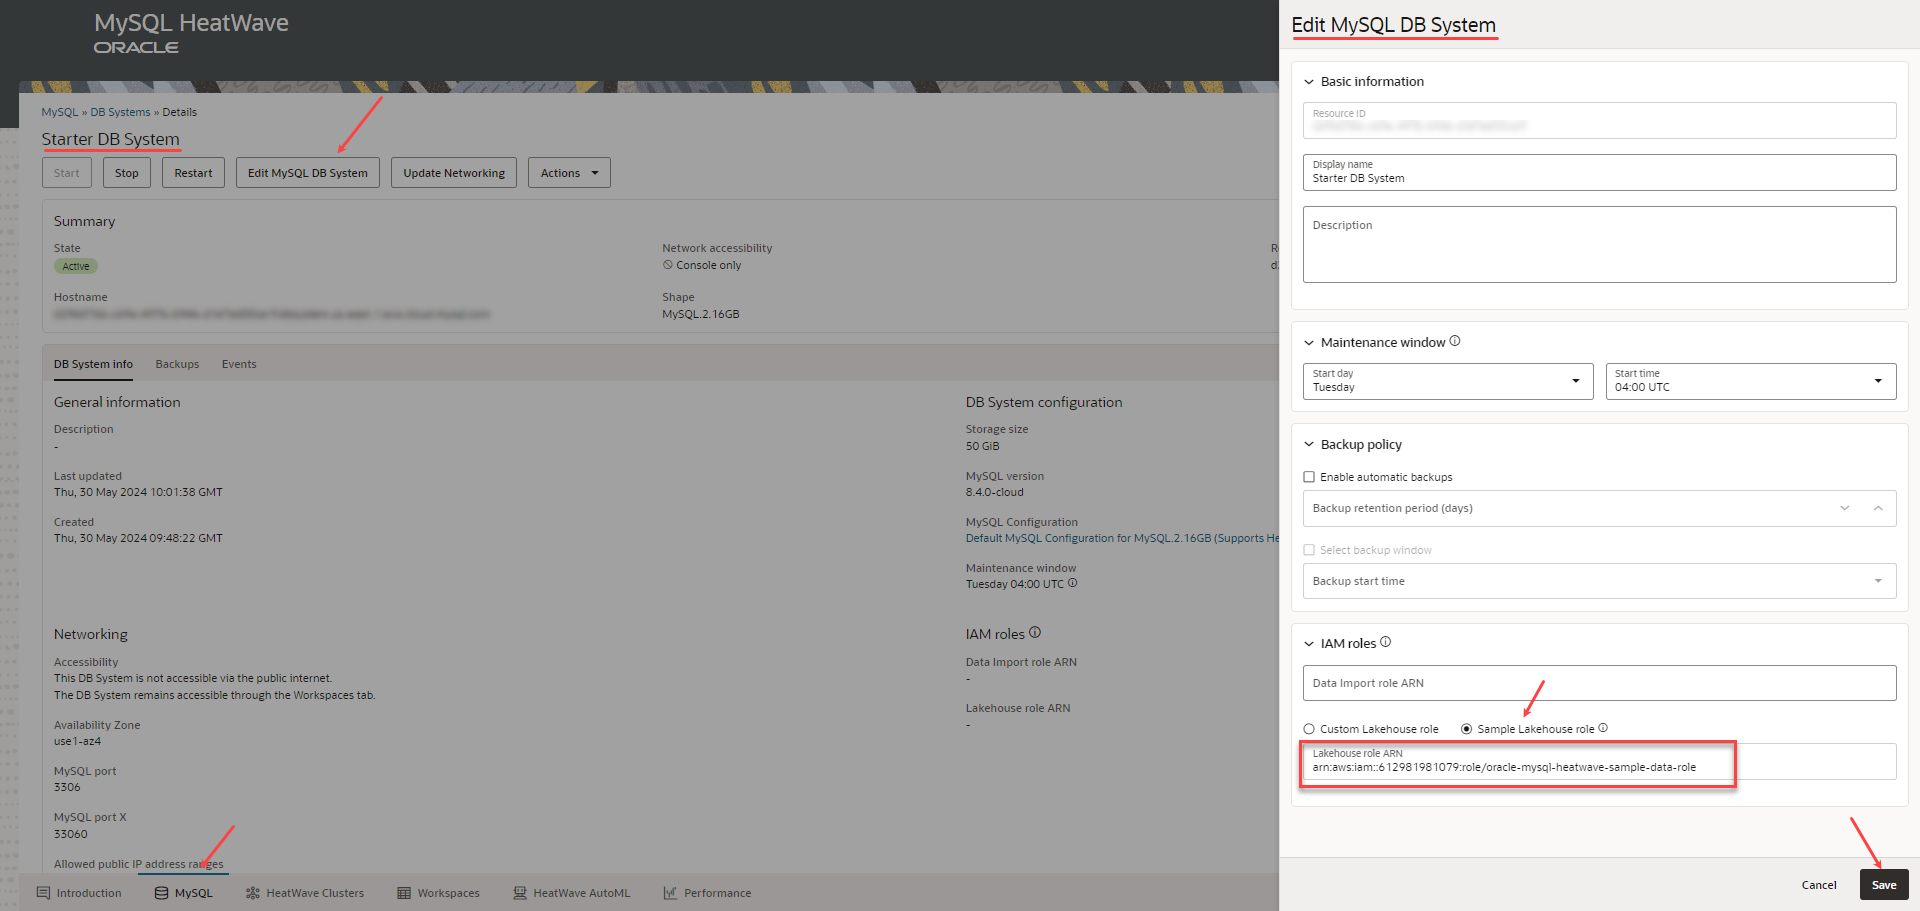
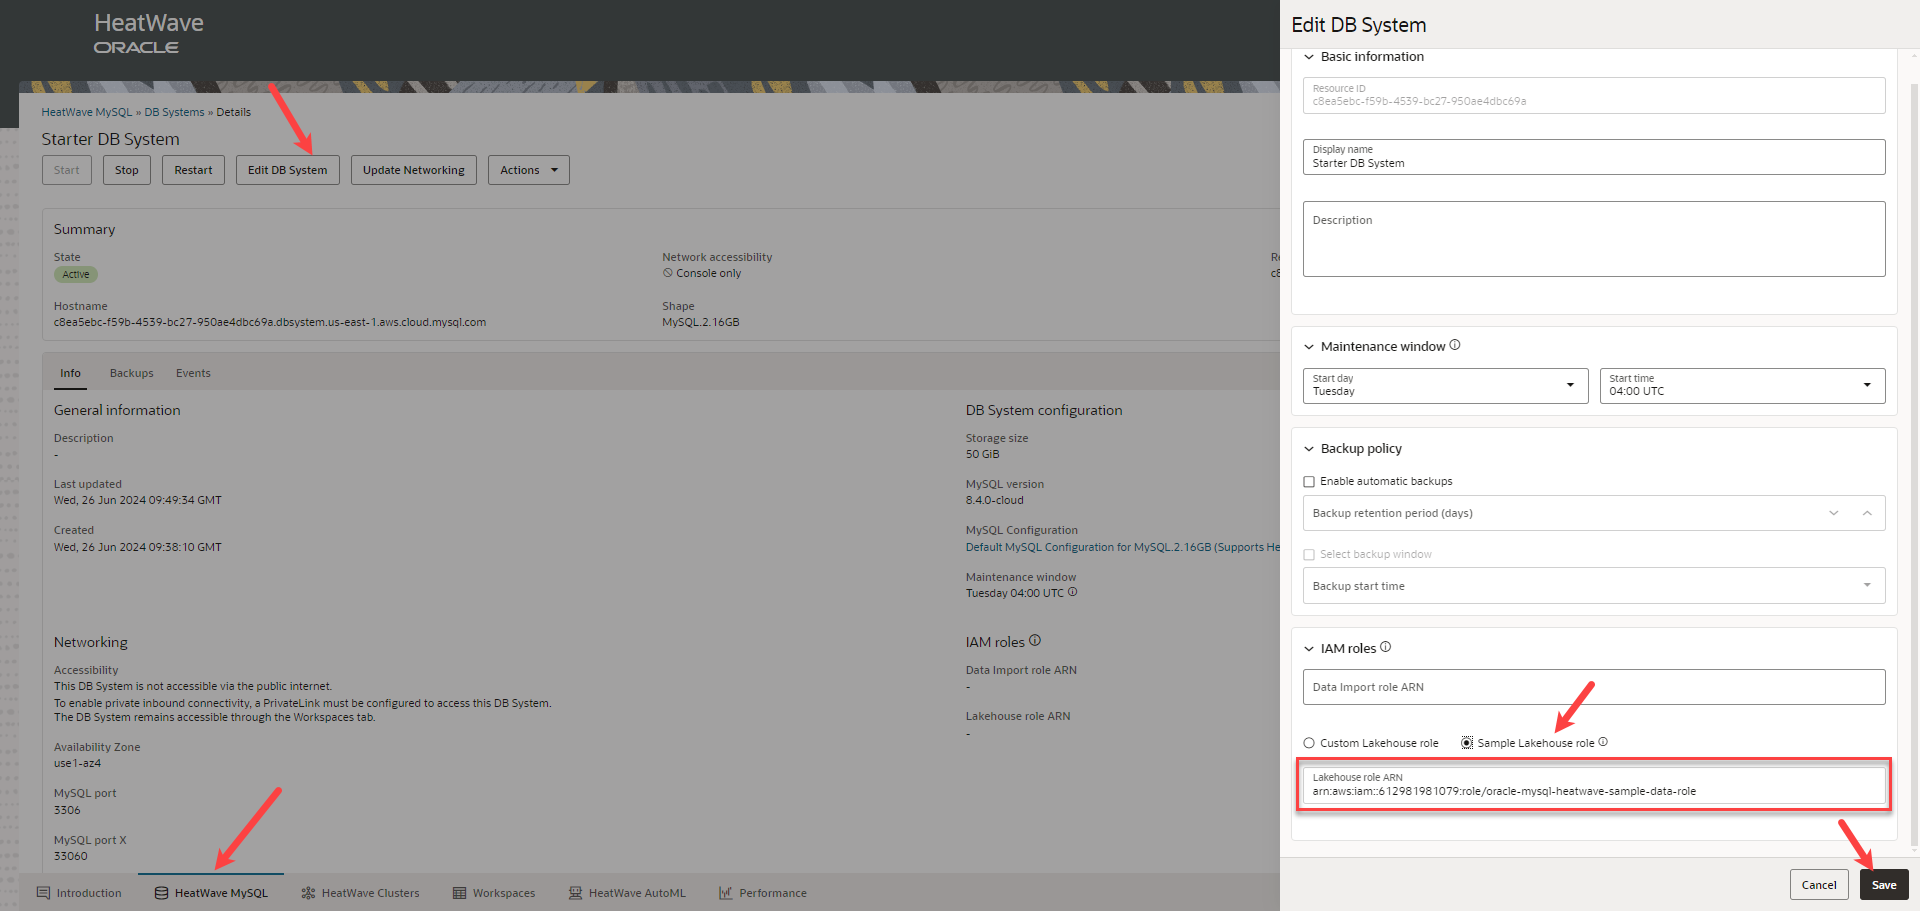
LWMS ID: 11660 - Lakehouse

diff --git a/create-lakehouse-mapping/create-lakehouse-mapping.md b/create-lakehouse-mapping/create-lakehouse-mapping.md
@@ -2,7 +2,7 @@
 
 ## Introduction
 
-In this lab you will map a table from the sample schema, airportdb, present in an Oracle-managed S3 bucket to HeatWave. Lakehouse mappings enable seamless and efficient data analysis directly on the data present in an Amazon S3 bucket. You don’t need to define the schema of the files in Amazon S3.  
+In this lab you will map a table from the sample schema, <i>airportdb</i>, present in an Oracle-managed S3 bucket to HeatWave. Lakehouse mappings enable seamless and efficient data analysis directly on the data present in an Amazon S3 bucket. You don’t need to define the schema of the files in Amazon S3.  
 
 _Estimated Time:_ 15 minutes
 
@@ -22,10 +22,16 @@ In this lab, you will be guided through the following tasks:
 1. Go to the **HeatWave Clusters** tab in the [Heatwave Console](https://cloud.mysql.com).
 
 2. Select your HeatWave Cluster, and under **Actions**, Click **Enable Lakehouse**. 
+    
     ![Enable Lakehouse](./images/1-enable-lakehouse.png "Enable Lakehouse")
 
-3. Under **HeatWave Cluster Details**, you can see that Lakehouse is enabled.
-    ![Lakehouse enabled](./images/2-lakehouse-enabled.png "Lakehouse enabled")
+3. In the **Enable HeatWave Lakehouse** dialog, click **Enable**.
+
+    ![Enable Lakehouse dialog](./images/2-enable-lakehouse-dialog.png "Enable Lakehouse dialog")
+
+4. Under **HeatWave Cluster Details**, you can see that Lakehouse is enabled.
+    
+    ![Lakehouse enabled](./images/3-lakehouse-enabled.png "Lakehouse enabled")
 
 ## Task 2: Create Lakehouse mapping
 
@@ -35,20 +41,22 @@ Lakehouse mappings enable you to perform analytics on the data in Amazon S3.
 
 2. Click **Create Lakehouse Mapping**.
 
+    ![Click create Lakehouse mapping](./images/4-click-create-lakehouse-mapping.png "Create Lakehouse mapping")
+
 3. In the **Create Lakehouse Mapping** panel, under **Source**, select **Use sample data**. This enables you to map sample tables present in the Oracle-managed S3 bucket to HeatWave. 
 
-4. Select the booking table from the drop down list, and rest of the details are populated automatically.
+4. Select the table, <i>booking</i>, from the drop down list, and click **Next**. The details are populated automatically. 
 
-    ![Create Lakehouse mapping](./images/6-create-lakehouse-mapping.png "Create Lakehouse mapping")
+    ![Create Lakehouse mapping](./images/5-create-lakehouse-mapping.png "Create Lakehouse mapping")
 
-5. Autopilot schema inference, a machine learning-powered automation, adaptively samples a small fraction of data in Amazon S3 and infers the number of columns, their data types, and their precision, creates the table definition, and also the script needed to load the table into HeatWave. This works on files that contain some metadata, like Parquet and Avro, and also on files that contain no metadata, like CSV.
-Select the **Load into HeatWave after creating Lakehouse mapping** checkbox to load data into HeatWave directly from the Amazon S3 bucket, and click **Create Lakehouse Mapping**. 
+5. Select the **Load into HeatWave after creating Lakehouse mapping** checkbox to load data into HeatWave directly from the Amazon S3 bucket, and click **Create Lakehouse Mapping**.  
+Autopilot schema inference, a machine learning-powered automation, adaptively samples a small fraction of data in Amazon S3 and infers the number of columns, their data types, and their precision, creates the table definition, and also the script needed to load the table into HeatWave. This works on files that contain some metadata, like Parquet and Avro, and also on files that contain no metadata, like CSV.
 
-    ![Auto schema inference](./images/7-auto-schema-inference.png "Auto schema inference")
+    ![Auto schema inference](./images/6-auto-schema-inference.png "Auto schema inference")
 
-6. You can see the table, booking, loaded into HeatWave directly from S3.
+6. You can see the table, <i>booking</i>, loaded into HeatWave directly from S3.
 
-    ![Loaded table](./images/8-loaded-table.png "Loaded table")
+    ![Loaded table](./images/7-loaded-table.png "Loaded table")
 
 You may now **proceed to the next lab**.
 

diff --git a/run-queries/run-queries.md b/run-queries/run-queries.md
@@ -22,12 +22,12 @@ In this lab, you will be guided through the following task:
 
 ## Task 1:  Connect to the Starter DB System
 
-1. Go to the **Workspaces tab**, and click **Connect to DB System**.
+1. Go to the **Workspaces** tab, and click **Connect to DB System**.
    
 2. Select your DB System and enter the username and password you had created in Lab 1.
     ![Connect Starter DB System](./images/1-connect-starter-db-system.png "Connect Starter DB System")
 
-3. In the **Query Editor** tab, you can see that the starter DB System contains the schemas, airportdb and tpch_1, already loaded into HeatWave.
+3. In the **Query Editor** tab, you can see that the starter DB System contains the schemas, <i>airportdb</i> and <i>tpch_1</i>, already loaded into HeatWave.
     ![Sample schemas](./images/2-sample-schemas.png "Sample schemas")
 
 ## Task 2: Run queries with HeatWave turned on
@@ -48,7 +48,7 @@ In this lab, you will be guided through the following task:
 
     When you run the query with HeatWave, it took only 0.1070 seconds.
 
-    ![Run query with HeatWave](./images/5-run-query.png "Run query with HeatWave")
+    ![Run query with HeatWave](./images/5-run-query-heatwave-on.png "Run query with HeatWave")
 
 ## Task 3: Run queries with HeatWave turned off
 
@@ -57,8 +57,11 @@ Let us run the same query by turning off HeatWave to find out what query perform
 1. Paste the following query in the **Query Editor**, and turn off HeatWave by clicking **Run Query**:
 
     ```bash
-    <copy>SET SESSION use_secondary_engine=OFF; </copy> 
+    <copy>SET SESSION use_secondary_engine=OFF;
+    SHOW VARIABLES LIKE 'use_secondary_engine%'
+    </copy> 
     ```
+![Turn off HeatWave](./images/6-turn-heatwave-off.png "Turn off HeatWave")
 
 2. Click **Sample Queries**, and then click **Sample AirportDB Queries**.
 
@@ -72,7 +75,7 @@ Let us run the same query by turning off HeatWave to find out what query perform
 
 5. When you run the query with HeatWave off, it took 0.1070 seconds. The query without HeatWave is x times slower.
 
-    ![Run query without HeatWave](./images/5-run-query.png "Run query without HeatWave")
+    ![Run query without HeatWave](./images/7-run-query-heatwave-off.png "Run query without HeatWave")
 
 7. Turn HeatWave back on by running the following query in the **Query Editor**.
 
@@ -83,17 +86,17 @@ Let us run the same query by turning off HeatWave to find out what query perform
     </copy>
     ```
 
-## Task 4: Drop a table from the schema, airportdb
+## Task 4: Drop a table from the schema, <i>airportdb</i>
 
-Let us drop the table, booking, from the schema, airportdb. We will use Lakehouse to map the table from an Oracle-managed S3 bucket.
+Let us drop the table, <i>booking</i>, from the schema, <i>airportdb</i>. We will use Lakehouse to map the table from an Oracle-managed S3 bucket.
 
- 1. Drop the table,booking, from the schema, airportdb, by running the following query in the **Query Editor**. 
+ 1. Drop the table, <i>booking</i>, from the schema, <i>airportdb</i>, by running the following query in the **Query Editor**. 
 
     ```bash
     <copy>use airportdb;
     drop table booking;</copy> 
     ``` 
-    ![Drop table booking](./images/6-drop-table-booking.png "Drop table booking")
+    ![Drop table booking](./images/8-drop-table-booking.png "Drop table booking")
 
 You may now **proceed to the next lab**.
 

diff --git a/run-queries-lakehouse/run-queries-lakehouse.md b/run-queries-lakehouse/run-queries-lakehouse.md
@@ -18,22 +18,23 @@ In this lab, you will be guided through the following task:
 
 ## Task 1: Run queries with HeatWave using Lakehouse
 
-1. In the **Workspaces** tab, click **Query Editor**. Under **Database Objects**, you can see the schemas and tables in the MySQL DB System, the associated table definitions, and the HeatWave load status of each table.
+1. In the **Workspaces** tab, click **Query Editor**. Under **Database Objects**, you can see the schemas and tables in the MySQL database, the associated table definitions, and the HeatWave load status of each table.
  
     ![Schema details](./images/1-heatwave-loaded-details.png "Schema details")
 
-2. Enter the following query in the **Query Editor**:
+2. Click **Sample Queries**, and then click **Sample AirportDB Queries**.
 
-    ```bash
-    <copy>USE airportdb; 
-    SELECT booking.col_5, count(*) FROM booking WHERE booking.col_5 > 500 GROUP BY booking.col_5 ORDER BY booking.col_5 LIMIT 100;</copy> 
-    ```
+    ![Click sample query](./images/2-click-sample-query.png "Click sample query")
 
-3. Click **Run Query** to run the query.
+3. Copy Query 1, and click **Cancel**. 
 
-    When you run the query with HeatWave using Lakehouse, it took only 0.0279 seconds, which is at par with when you run the query from MySQL.
+    ![Copy sample airportdb query](./images/3-copy-sample-query.png "Copy sample airportdb query")
 
-    ![Run queries with HeatWave using Lakehouse](./images/2-run-query.png "Run queries with HeatWave using Lakehouse")
+4. Paste the query in the **Query Editor**, and click **Run Query**.
+
+5. When you run the query with HeatWave using Lakehouse, it took only 0.0274 seconds, which is at par with when you run the query from MySQL.
+
+    ![Run queries with HeatWave using Lakehouse](./images/4-run-query.png "Run queries with HeatWave using Lakehouse")
 
 You may now **proceed to the next lab**.
 

diff --git a/launch-starter-dbs/launch-starter-dbs.md b/launch-starter-dbs/launch-starter-dbs.md
@@ -42,7 +42,7 @@ Once you have signed in, launch a starter DB System.
 
     The DB System should be created in a few minutes.
 
-3. Once the DB system is created, click the name of the DB System to see the DB System details.
+3. Once the DB System is created, click the name of the DB System to see the details.
 
     ![Starter DB system details](./images/3-starter-db-system-details.png "Starter DB system details")
 
@@ -50,7 +50,7 @@ Once you have signed in, launch a starter DB System.
 
 You need to specify an IAM role with the correct policies and trust relationships to grant the HeatWave DB System access to the data in Amazon S3. This will provide enhanced security, making it suitable for enterprise production workloads.
 
-1. Click **Edit the Starter DB System** and choose **Sample Lakehouse role**. The sample Lakehouse role contains the necessary policies and permissions to help you with Lakehouse mapping. 
+1. Click **Edit DB System** and choose **Sample Lakehouse role**. The sample Lakehouse role contains the necessary policies and permissions to help you with Lakehouse mapping. 
 
     ![Starter DB system Lakehouse details](./images/4-lakehouse-arn.png "Starter DB system Lakehouse details")
 

diff --git a/develop-apps/develop-apps.md b/develop-apps/develop-apps.md
@@ -107,7 +107,7 @@ In this lab, you will be guided through the following tasks:
     <copy>sudo nano /var/www/html/info.php</copy>
     ```
 
-3. Add the following code to the editor and save the file (ctr + o) (ctl + x).
+3. Add the following code to the editor and save the file (ctr + O) (ctl + X).
 
     ```bash
     <copy><?php
@@ -141,7 +141,7 @@ In this lab, you will be guided through the following tasks:
     <copy>sudo nano config.php</copy>
     ```
 
-3. Add the following code to the editor and save the file (ctr + o) (ctl + x).
+3. Add the following code to the editor and save the file (ctr + O) (ctl + X).
 
      ```bash
         <copy><?php
